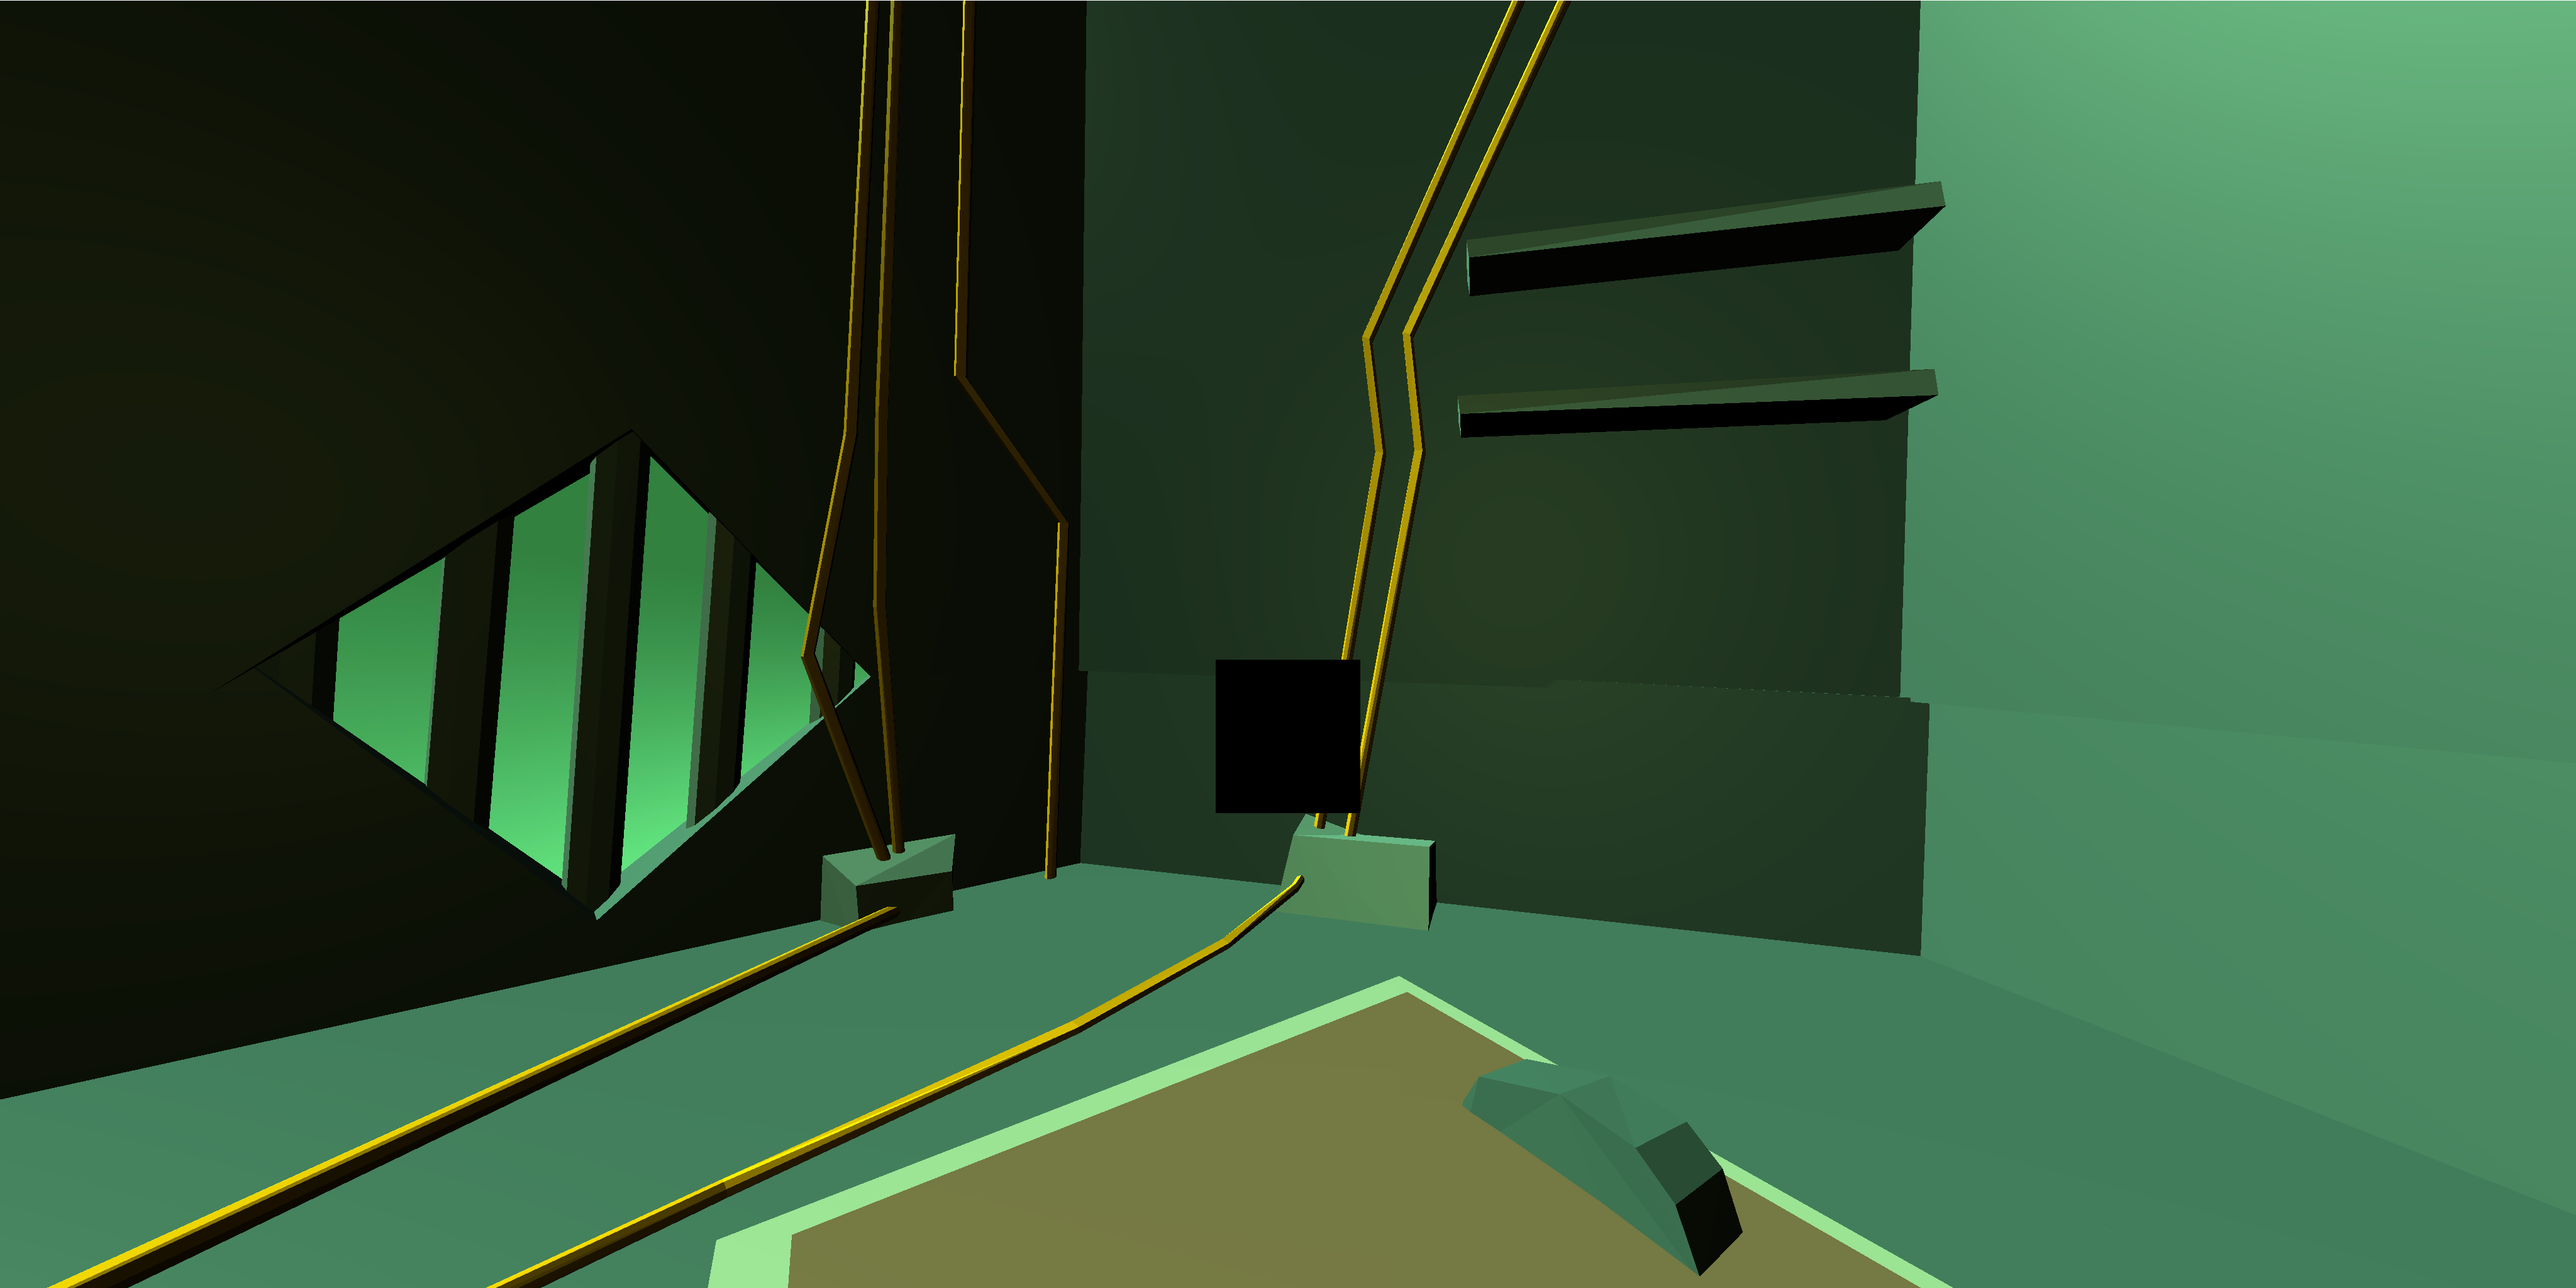
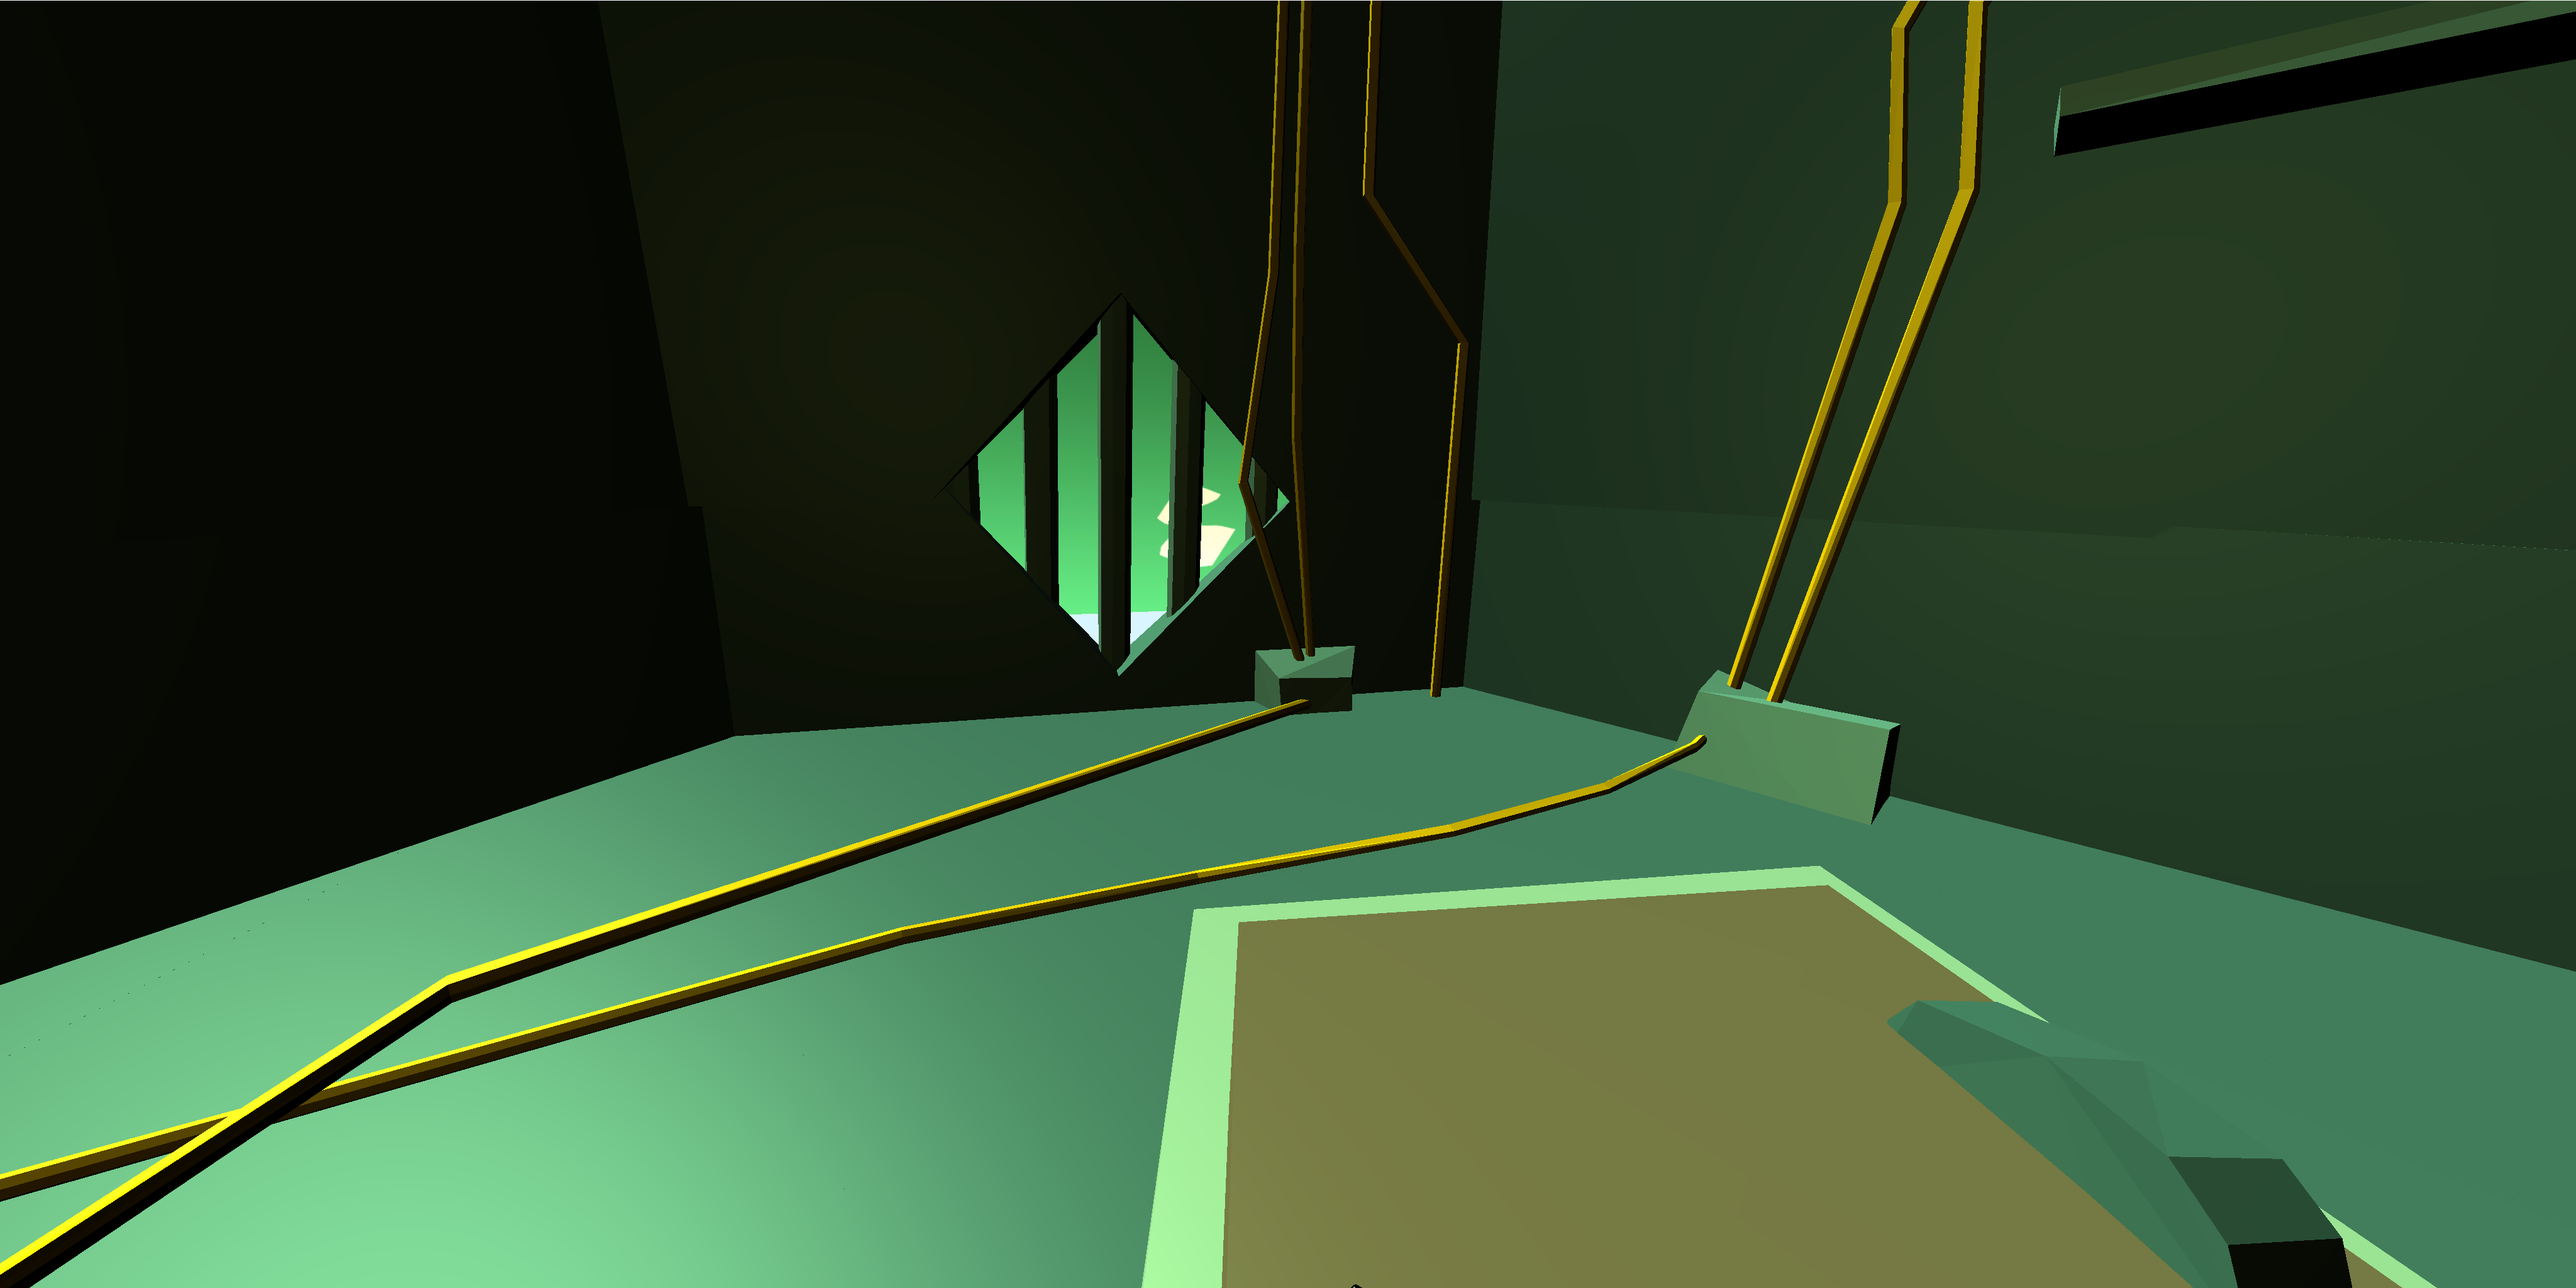
hologram fenster hat wolken

diff --git a/Hologram/PolyislandHologram.hologram/hologram/build/main.js b/Hologram/PolyislandHologram.hologram/hologram/build/main.js
@@ -1,4 +1,4 @@
-window.__assets={"2RUnO1Yi99P_9zbqSChdKvN_obj":"2RUnO1Yi99P_9zbqSChdKvN_obj/SunshinePalmTree.obj","2oA770SsWii_5JYR_gBc26__obj":"2oA770SsWii_5JYR_gBc26__obj/1302 Sump Pump.obj","Cross":"Cross.png","IDEE4":"IDEE4.png","Labyrinth1":"Labyrinth1.5.dae","Radio":"Radio/WalkieTalkie.obj","Sky":"Sky.jpg","ipvryk":"ipvryk/model-triangulated.obj","nwcfcj":"nwcfcj/model-triangulated.obj","Screen Shot 2018-01-28 at 08.04":"Screen Shot 2018-01-28 at 08.04.36.jpg"};(function(scope) {Hologram.effects.bloom = null;Hologram.scene.fog = null;var __zxzgnpp7q = new Sky({color:"#d9f5ff"});var __4ty8rrvcu = new Model({position:"-43.646 -9.586 -32.921",src:"2RUnO1Yi99P_9zbqSChdKvN_obj"});var __oiwibj3ca = new Model({position:"-6.028 -4.158 -3.049",rotation:"-3 -0.19 0",scale:"130 130 130",src:"ipvryk"});var __0l1g51flh = new Model({position:"13.639 1.778 5.683",rotation:"180 37.34 -0.18",scale:"0.1 0.1 0.1",src:"2oA770SsWii_5JYR_gBc26__obj"});var __suwrsnb7m = new Model({position:"19.612 0.113 -1.184",rotation:"90 37.34 124.49",scale:"0.1 0.1 0.1",src:"2oA770SsWii_5JYR_gBc26__obj"});var __0vqwbbd64 = new Model({position:"1.187 -3.417 5.834",scale:"0.3 0.3 0.3",shadow:false,src:"Labyrinth1"});var __vqom8n6h5 = new Image({position:"1.545 -3.59 3.892",rotation:"-90 0 0",scale:"0.6 0.6 1",src:"Cross"});var __8shd53ptg = new Image({position:"2.225 -3.601 4.415",rotation:"-90 0 0",scale:"0.6 0.6 1",src:"Cross"});var __bxupqmly2 = new Image({position:"2.541 -3.568 5.471",rotation:"-90 0 0",scale:"0.6 0.6 1",src:"Cross"});var __khjr1dywg = new Image({position:"3.722 -3.608 4.32",rotation:"-90 0 0",scale:"0.6 0.6 1",src:"Cross"});var __virteqqxn = new Image({position:"4.649 -3.615 3.445",rotation:"-90 0 0",scale:"0.44 0.27 1",src:"Cross"});var __brtwim0gi = new Image({position:"5.913 -3.601 1.525",rotation:"-90 0 0",scale:"0.42 0.47 1",src:"Cross"});var __0b3lhis7g = new Image({position:"5.48 -3.605 1.424",rotation:"-90 0 0",scale:"0.6 0.56 1",src:"Cross"});var __d9syhfhsa = new Image({position:"3.45 -3.579 2.48",rotation:"-90 0 0",scale:"0.6 0.6 1",src:"Cross"});var __u2r279o6p = new Image({position:"5.313 -3.627 4.672",rotation:"-90 0 0",scale:"0.53 0.4 1",src:"Cross"});var __eouodeegt = new Image({position:"2.3 -3.486 1.615",rotation:"90 0 14.25",scale:"0.43 0.38 1",src:"Cross"});var __bbkzy7wdk = new Image({position:"-28.54 1.377 -31.772",rotation:"0.55 90 0",scale:"60 20 1",src:"Sky"});var __362yxpuyb = new Model({position:"-0.876 -3.044 -0.057",rotation:"-69.08 -0.8 0.45",scale:"0.2 0.2 0.2",src:"Radio"});Object.assign(scope,{});})(window);/******/ (function(modules) { // webpackBootstrap
+window.__assets={"2RUnO1Yi99P_9zbqSChdKvN_obj":"2RUnO1Yi99P_9zbqSChdKvN_obj/SunshinePalmTree.obj","2oA770SsWii_5JYR_gBc26__obj":"2oA770SsWii_5JYR_gBc26__obj/1302 Sump Pump.obj","Cross":"Cross.png","IDEE4":"IDEE4.png","Labyrinth1":"Labyrinth1.5.dae","Radio":"Radio/WalkieTalkie.obj","Sky":"Sky.jpg","ipvryk":"ipvryk/model-triangulated.obj","nwcfcj":"nwcfcj/model-triangulated.obj","Skywithclouds":"Skywithclouds.jpg"};(function(scope) {Hologram.effects.bloom = null;Hologram.scene.fog = null;var __zxzgnpp7q = new Sky({color:"#d9f5ff"});var __oiwibj3ca = new Model({position:"-6.028 -4.158 -3.049",rotation:"-3 -0.19 0",scale:"130 130 130",src:"ipvryk"});var __0l1g51flh = new Model({position:"13.639 1.778 5.683",rotation:"180 37.34 -0.18",scale:"0.1 0.1 0.1",src:"2oA770SsWii_5JYR_gBc26__obj"});var __suwrsnb7m = new Model({position:"19.612 0.113 -1.184",rotation:"90 37.34 124.49",scale:"0.1 0.1 0.1",src:"2oA770SsWii_5JYR_gBc26__obj"});var __0vqwbbd64 = new Model({position:"1.187 -3.417 5.834",scale:"0.3 0.3 0.3",shadow:false,src:"Labyrinth1"});var __vqom8n6h5 = new Image({position:"1.545 -3.59 3.892",rotation:"-90 0 0",scale:"0.6 0.6 1",src:"Cross"});var __8shd53ptg = new Image({position:"2.225 -3.601 4.415",rotation:"-90 0 0",scale:"0.6 0.6 1",src:"Cross"});var __bxupqmly2 = new Image({position:"2.541 -3.568 5.471",rotation:"-90 0 0",scale:"0.6 0.6 1",src:"Cross"});var __khjr1dywg = new Image({position:"3.722 -3.608 4.32",rotation:"-90 0 0",scale:"0.6 0.6 1",src:"Cross"});var __virteqqxn = new Image({position:"4.649 -3.615 3.445",rotation:"-90 0 0",scale:"0.44 0.27 1",src:"Cross"});var __brtwim0gi = new Image({position:"5.913 -3.601 1.525",rotation:"-90 0 0",scale:"0.42 0.47 1",src:"Cross"});var __0b3lhis7g = new Image({position:"5.48 -3.605 1.424",rotation:"-90 0 0",scale:"0.6 0.56 1",src:"Cross"});var __d9syhfhsa = new Image({position:"3.45 -3.579 2.48",rotation:"-90 0 0",scale:"0.6 0.6 1",src:"Cross"});var __u2r279o6p = new Image({position:"5.313 -3.627 4.672",rotation:"-90 0 0",scale:"0.53 0.4 1",src:"Cross"});var __eouodeegt = new Image({position:"2.3 -3.486 1.615",rotation:"90 0 14.25",scale:"0.43 0.38 1",src:"Cross"});var __362yxpuyb = new Model({position:"-0.876 -3.044 -0.057",rotation:"-69.08 -0.8 0.45",scale:"0.2 0.2 0.2",src:"Radio"});var __u408lqdzr = new Image({position:"-38.201 3.344 -44.89",rotation:"0 54.19 -2.15",scale:"30 30 1",src:"Skywithclouds"});Object.assign(scope,{});})(window);/******/ (function(modules) { // webpackBootstrap
 /******/ 	// The module cache
 /******/ 	var installedModules = {};
 /******/

diff --git a/Hologram/PolyislandHologram.hologram/hologram/hologram.generated.js b/Hologram/PolyislandHologram.hologram/hologram/hologram.generated.js
@@ -1,1 +1,1 @@
-window.__assets={"2RUnO1Yi99P_9zbqSChdKvN_obj":"2RUnO1Yi99P_9zbqSChdKvN_obj/SunshinePalmTree.obj","2oA770SsWii_5JYR_gBc26__obj":"2oA770SsWii_5JYR_gBc26__obj/1302 Sump Pump.obj","Cross":"Cross.png","IDEE4":"IDEE4.png","Labyrinth1":"Labyrinth1.5.dae","Radio":"Radio/WalkieTalkie.obj","Sky":"Sky.jpg","ipvryk":"ipvryk/model-triangulated.obj","nwcfcj":"nwcfcj/model-triangulated.obj","Screen Shot 2018-01-28 at 08.04":"Screen Shot 2018-01-28 at 08.04.36.jpg"};(function(scope) {Hologram.effects.bloom = null;Hologram.scene.fog = null;var __zxzgnpp7q = new Sky({color:"#d9f5ff"});var __4ty8rrvcu = new Model({position:"-43.646 -9.586 -32.921",src:"2RUnO1Yi99P_9zbqSChdKvN_obj"});var __oiwibj3ca = new Model({position:"-6.028 -4.158 -3.049",rotation:"-3 -0.19 0",scale:"130 130 130",src:"ipvryk"});var __0l1g51flh = new Model({position:"13.639 1.778 5.683",rotation:"180 37.34 -0.18",scale:"0.1 0.1 0.1",src:"2oA770SsWii_5JYR_gBc26__obj"});var __suwrsnb7m = new Model({position:"19.612 0.113 -1.184",rotation:"90 37.34 124.49",scale:"0.1 0.1 0.1",src:"2oA770SsWii_5JYR_gBc26__obj"});var __0vqwbbd64 = new Model({position:"1.187 -3.417 5.834",scale:"0.3 0.3 0.3",shadow:false,src:"Labyrinth1"});var __vqom8n6h5 = new Image({position:"1.545 -3.59 3.892",rotation:"-90 0 0",scale:"0.6 0.6 1",src:"Cross"});var __8shd53ptg = new Image({position:"2.225 -3.601 4.415",rotation:"-90 0 0",scale:"0.6 0.6 1",src:"Cross"});var __bxupqmly2 = new Image({position:"2.541 -3.568 5.471",rotation:"-90 0 0",scale:"0.6 0.6 1",src:"Cross"});var __khjr1dywg = new Image({position:"3.722 -3.608 4.32",rotation:"-90 0 0",scale:"0.6 0.6 1",src:"Cross"});var __virteqqxn = new Image({position:"4.649 -3.615 3.445",rotation:"-90 0 0",scale:"0.44 0.27 1",src:"Cross"});var __brtwim0gi = new Image({position:"5.913 -3.601 1.525",rotation:"-90 0 0",scale:"0.42 0.47 1",src:"Cross"});var __0b3lhis7g = new Image({position:"5.48 -3.605 1.424",rotation:"-90 0 0",scale:"0.6 0.56 1",src:"Cross"});var __d9syhfhsa = new Image({position:"3.45 -3.579 2.48",rotation:"-90 0 0",scale:"0.6 0.6 1",src:"Cross"});var __u2r279o6p = new Image({position:"5.313 -3.627 4.672",rotation:"-90 0 0",scale:"0.53 0.4 1",src:"Cross"});var __eouodeegt = new Image({position:"2.3 -3.486 1.615",rotation:"90 0 14.25",scale:"0.43 0.38 1",src:"Cross"});var __bbkzy7wdk = new Image({position:"-28.54 1.377 -31.772",rotation:"0.55 90 0",scale:"60 20 1",src:"Sky"});var __362yxpuyb = new Model({position:"-0.876 -3.044 -0.057",rotation:"-69.08 -0.8 0.45",scale:"0.2 0.2 0.2",src:"Radio"});Object.assign(scope,{});})(window);
+window.__assets={"2RUnO1Yi99P_9zbqSChdKvN_obj":"2RUnO1Yi99P_9zbqSChdKvN_obj/SunshinePalmTree.obj","2oA770SsWii_5JYR_gBc26__obj":"2oA770SsWii_5JYR_gBc26__obj/1302 Sump Pump.obj","Cross":"Cross.png","IDEE4":"IDEE4.png","Labyrinth1":"Labyrinth1.5.dae","Radio":"Radio/WalkieTalkie.obj","Sky":"Sky.jpg","ipvryk":"ipvryk/model-triangulated.obj","nwcfcj":"nwcfcj/model-triangulated.obj","Skywithclouds":"Skywithclouds.jpg"};(function(scope) {Hologram.effects.bloom = null;Hologram.scene.fog = null;var __zxzgnpp7q = new Sky({color:"#d9f5ff"});var __oiwibj3ca = new Model({position:"-6.028 -4.158 -3.049",rotation:"-3 -0.19 0",scale:"130 130 130",src:"ipvryk"});var __0l1g51flh = new Model({position:"13.639 1.778 5.683",rotation:"180 37.34 -0.18",scale:"0.1 0.1 0.1",src:"2oA770SsWii_5JYR_gBc26__obj"});var __suwrsnb7m = new Model({position:"19.612 0.113 -1.184",rotation:"90 37.34 124.49",scale:"0.1 0.1 0.1",src:"2oA770SsWii_5JYR_gBc26__obj"});var __0vqwbbd64 = new Model({position:"1.187 -3.417 5.834",scale:"0.3 0.3 0.3",shadow:false,src:"Labyrinth1"});var __vqom8n6h5 = new Image({position:"1.545 -3.59 3.892",rotation:"-90 0 0",scale:"0.6 0.6 1",src:"Cross"});var __8shd53ptg = new Image({position:"2.225 -3.601 4.415",rotation:"-90 0 0",scale:"0.6 0.6 1",src:"Cross"});var __bxupqmly2 = new Image({position:"2.541 -3.568 5.471",rotation:"-90 0 0",scale:"0.6 0.6 1",src:"Cross"});var __khjr1dywg = new Image({position:"3.722 -3.608 4.32",rotation:"-90 0 0",scale:"0.6 0.6 1",src:"Cross"});var __virteqqxn = new Image({position:"4.649 -3.615 3.445",rotation:"-90 0 0",scale:"0.44 0.27 1",src:"Cross"});var __brtwim0gi = new Image({position:"5.913 -3.601 1.525",rotation:"-90 0 0",scale:"0.42 0.47 1",src:"Cross"});var __0b3lhis7g = new Image({position:"5.48 -3.605 1.424",rotation:"-90 0 0",scale:"0.6 0.56 1",src:"Cross"});var __d9syhfhsa = new Image({position:"3.45 -3.579 2.48",rotation:"-90 0 0",scale:"0.6 0.6 1",src:"Cross"});var __u2r279o6p = new Image({position:"5.313 -3.627 4.672",rotation:"-90 0 0",scale:"0.53 0.4 1",src:"Cross"});var __eouodeegt = new Image({position:"2.3 -3.486 1.615",rotation:"90 0 14.25",scale:"0.43 0.38 1",src:"Cross"});var __362yxpuyb = new Model({position:"-0.876 -3.044 -0.057",rotation:"-69.08 -0.8 0.45",scale:"0.2 0.2 0.2",src:"Radio"});var __u408lqdzr = new Image({position:"-38.201 3.344 -44.89",rotation:"0 54.19 -2.15",scale:"30 30 1",src:"Skywithclouds"});Object.assign(scope,{});})(window);
